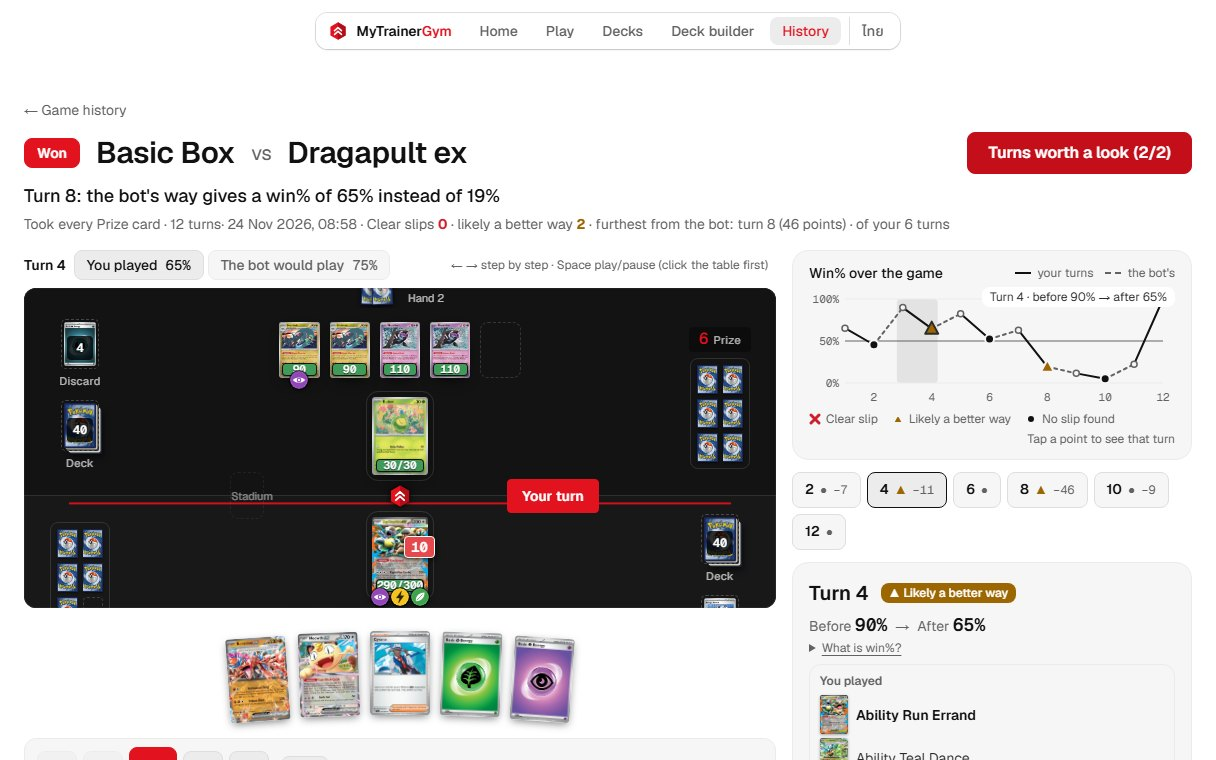
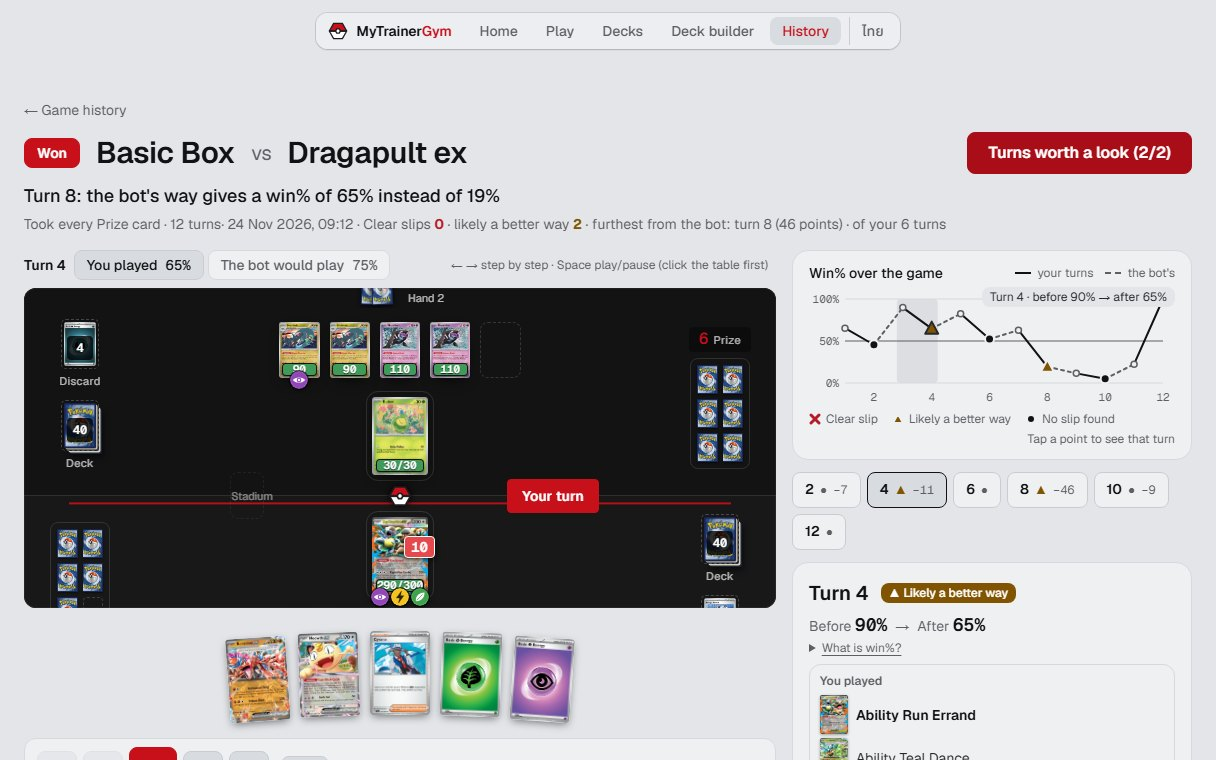
A light grey page instead of glaring white; the mark becomes a trainer's ball
The page is #E3E5E8 with #EEF0F2 surfaces, and the red, blue, green and amber are a shade deeper so
they still read at 4.5:1 as text on it. The mark (logo, favicon.svg and a new favicon.ico, the mat's
emblem) is our own trainer's ball drawn as a gym badge: a flat-topped hexagon, red above and white
below a dark band, a hexagonal button. Home screenshots retaken.

Claude-Session: https://claude.ai/code/session_01C9NjE94n3rvf6xjp8K29Zd

diff --git a/src/components/game/Board.svelte b/src/components/game/Board.svelte
@@ -211,9 +211,12 @@
   <!-- The centre of the gym's floor, with its badge (BrandMark.astro's shape). -->
   <div class="midline" aria-hidden="true">
     <svg class="emblem" viewBox="0 0 32 32">
-      <path d="M16 2L28.12 9V23L16 30L3.88 23V9Z" fill="var(--brand)" />
-      <path d="M16 2L28.12 9V23L16 30Z" fill="var(--brand-deep)" />
-      <path d="M10.5 15.5L16 10.5L21.5 15.5M10.5 21.5L16 16.5L21.5 21.5" fill="none" stroke="var(--primary-ink)" stroke-width="2.6" stroke-linecap="round" stroke-linejoin="round" />
+      <path d="M2 16L9 3.88H23L30 16Z" fill="var(--brand)" />
+      <path d="M2 16L9 28.12H23L30 16Z" fill="#ffffff" />
+      <path d="M2 16H30" stroke="var(--mark-ink)" stroke-width="3" />
+      <path d="M30 16L23 28.12H9L2 16L9 3.88H23Z" fill="none" stroke="var(--mark-ink)" stroke-width="2" stroke-linejoin="round" />
+      <path d="M21.2 16L18.6 20.5H13.4L10.8 16L13.4 11.5H18.6Z" fill="var(--mark-ink)" />
+      <path d="M18.6 16L17.3 18.25H14.7L13.4 16L14.7 13.75H17.3Z" fill="#ffffff" />
     </svg>
   </div>
 

diff --git a/AGENTS.md b/AGENTS.md
@@ -223,10 +223,11 @@ own scan by set and number (`limitless`, e.g. the Grookey MEP 52 promo neither A
   cards from its box (`.table`, container query units), and the hand overlaps in a fan instead of scrolling.
   Setup (Active Spot, Bench) is done on the table with a confirm button in the dock, not a choice box.
   Theme: MyTrainerGym's, a Pokémon trainer's gym in a Pokémon Center's colours (our own drawings, none of its
-  logos): one light, flat theme, tokens on `:root` in `layouts/Base.astro` (white page, `--card-bg` #F6F6F6 /
-  `--raised` white / `--control` #ECECEC surfaces, `--line` / `--rule` hairlines, near black ink; `--brand` red #E3121F
-  (`--brand-deep` its shade) is the brand: `--primary` for the one main action, `--accent` for what can be played or
-  picked and `--mine` your side are it; `--theirs` = `--rival` blue for the bot, your rival (its dots, log lines, turn
+  logos): one light, flat theme, softened (white glares), tokens on `:root` in `layouts/Base.astro` (light grey page
+  `--paper` #E3E5E8, `--card-bg` #EEF0F2 / `--raised` #F6F7F8 / `--control` #D8DBDF surfaces, `--line` / `--rule`
+  hairlines, near black ink; the red, blue, green and amber read at 4.5:1 as text on the page and `--card-bg`); `--brand` red #C8101B is
+  the brand: `--primary` for the one main action, `--accent` for what can be played or picked and `--mine` your side
+  are it; `--theirs` = `--rival` blue for the bot, your rival (its dots, log lines, turn
   glow, a lost game); `--stamp` a deeper red for danger, mistakes and damage; `--warn` amber for a warning (a turn
   worth a look, the bot's better way and what it gets you). The play mat is dark: `.dark` (Base.astro) puts the dark
   surfaces and light ink back on the mat (`.board`), a Pokémon's menu and the Prize pick;
@@ -239,8 +240,9 @@ own scan by set and number (`limitless`, e.g. the Grookey MEP 52 promo neither A
   size off the scale, a colour that isn't a token (black and white shades aside) or a token that isn't defined; the
   drawn cards (`FxLayer`, `CardBack`, `CardFace`) are its exceptions.
   No background gradients, one-sided card borders, pill buttons, sticker labels or confetti. The gym's motifs:
-  `BrandMark.astro` (a red hexagon badge with two white rank chevrons; the favicon and the emblem on the play mat's
-  centre line are the same shape), the wordmark MyTrainer + red Gym, `GymBadge.svelte` (one original shape per Gym Leader by
+  `BrandMark.astro` (a trainer's ball drawn as a gym badge, our own and not the Poké Ball: a flat-topped hexagon, red
+  above and white below a dark band, `--mark-ink`, with a hexagonal button; the favicon, `favicon.ico` and the emblem
+  on the play mat's centre line are the same shape), the wordmark MyTrainer + red Gym, `GymBadge.svelte` (one original shape per Gym Leader by
   rank, in the type colour of its headline Pokémon, `gymLeaders()` in `lib/decks.ts`; earned = a flat layered medal,
   not yet = an outline), `ArenaLines.astro` (a battle floor seen from above, hairlines; `frame` without the centre
   circle where text sits), red spaced-out eyebrows like a gym's signage; the copy speaks of trainers, Gym Leaders
